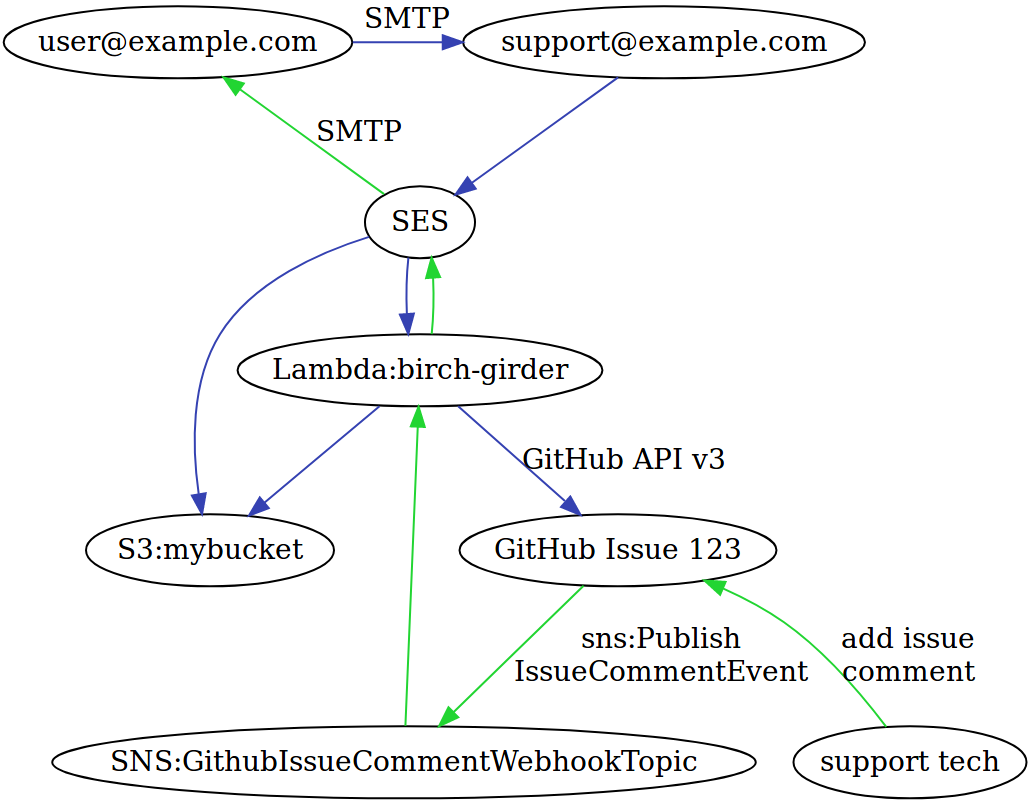
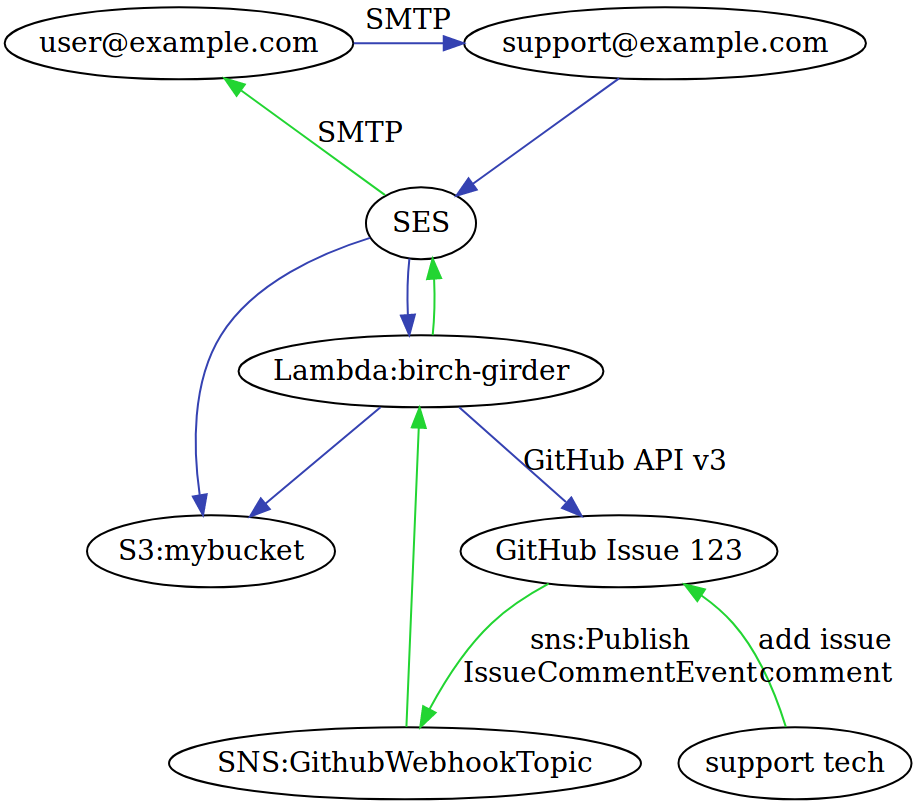
Change SNS topic to reflect the SNS topic being GitHub webhook centric not Birch Girder centric
Clarify GitHub webhook filtering logic to only trigger on IssueCommentEvent webhooks
Change default SNS policy and topic names to reflect the SNS topic being GitHub webhook centric not Birch Girder centric
Fix dryrun log message
Fix documentation typo
Revoke rights of alert SNS topic to trigger lambda function as it's not needed

diff --git a/birch_girder/__init__.py b/birch_girder/__init__.py
@@ -906,22 +906,20 @@ class EventHandler:
 
         message = json.loads(self.event['Records'][0]['Sns']['Message'])
         mention = '@%s' % self.config['github_username']
-        if 'action' not in message:
-            logger.info('action key missing from SNS message : %s'
+
+        if 'comment' not in message or 'issue' not in message:
+            logger.debug('Non IssueCommentEvent webhook event received : %s'
                         % self.event['Records'][0]['Sns']['Message'])
             return False
+        if 'action' not in message :
+            logger.error('action key missing from SNS message : %s'
+                        % self.event['Records'][0]['Sns']['Message'])
+            return False
+
         if message['action'] != 'created':
             logger.info(
-                'GitHub action in SNS message was "%s" so it will be ignored'
-                % message['action'])
-            return False
-        if 'comment' not in message:
-            logger.info('comment key missing from SNS message : %s'
-                        % self.event['Records'][0]['Sns']['Message'])
-            return False
-        if 'issue' not in message:
-            logger.info('issue key missing from SNS message : %s'
-                        % self.event['Records'][0]['Sns']['Message'])
+                'GitHub IssueCommentEvent action in SNS message was "%s" so '
+                'it will be ignored' % message['action'])
             return False
         if message['issue']['user']['login'] != self.config['github_username']:
             logger.info(
@@ -991,7 +989,6 @@ class EventHandler:
             "comment." % data['from'])
 
         if self.dryrun_tag not in message['comment']['body']:
-            logger.info('Running in dryrun mode')
             message_id = send_email(
                 email_subject="Re: %s" % subject,
                 from_name=self.config['recipient_list'][data['to']].get(
@@ -1013,16 +1010,16 @@ class EventHandler:
                 message['issue']['body'],
                 message_id,
                 {})
-
+        else:
+            logger.info('Running in dryrun mode')
 
 def lambda_handler(event, context):
-    """
-    Given an event determine if it's and incoming email or an SNS webhook alert
+    """Given an event determine if it's and incoming email or an SNS webhook alert
     and trigger the appropriate method
 
     :param event: A dictionary of metadata for an event
     :param context: The AWS Lambda context object
-    :return: A list of checks which resulted in failures
+    :return:
     """
     logger.debug('got event {}'.format(event))
     with open('config.yaml') as f:

diff --git a/manage.py b/manage.py
@@ -38,7 +38,7 @@ def grant_lambda_policy_permissions(config, lambda_function_arn):
     )
     print('Permission %s added : %s' % (statement_id, response['Statement']))
 
-    statement_id = 'GiveBirchGirderSNSTopicPermissionToInvokeFunction'
+    statement_id = 'GiveGithubWebhookSNSTopicPermissionToInvokeFunction'
     try:
         client.remove_permission(
             FunctionName=lambda_function_arn,
@@ -54,24 +54,6 @@ def grant_lambda_policy_permissions(config, lambda_function_arn):
         Action='lambda:InvokeFunction',
         Principal='sns.amazonaws.com',
         SourceArn=topic
-    )
-    print('Permission %s added : %s' % (statement_id, response['Statement']))
-
-    statement_id = 'GiveBirchGirderAlertSNSTopicPermissionToInvokeFunction'
-    try:
-        client.remove_permission(
-            FunctionName=lambda_function_arn,
-            StatementId=statement_id
-        )
-        print('%s Lambda permission removed' % statement_id)
-    except:
-        pass
-    response = client.add_permission(
-        FunctionName=lambda_function_arn,
-        StatementId=statement_id,
-        Action='lambda:InvokeFunction',
-        Principal='sns.amazonaws.com',
-        SourceArn=alert_topic
     )
     print('Permission %s added : %s' % (statement_id, response['Statement']))
 
@@ -177,7 +159,7 @@ def create_github_iam_user(config, iam_username='github-sns-publisher'):
         UserName=iam_username
     )
     print('IAM user %s created' % response['User']['UserName'])
-    policy_name = 'PublishToSNSaws-ses-github-connector'
+    policy_name = 'PublishToGithubWebhookSNSTopic'
     client.put_user_policy(
         UserName=iam_username,
         PolicyName=policy_name,

diff --git a/setup.py b/setup.py
@@ -11,7 +11,7 @@ with open(path.join(here, 'README.md'), encoding='utf-8') as f:
 
 setup(
     name='birch_girder',
-    version='0.8.2',
+    version='0.8.3',
     description='An Email Interface for GitHub Issues',
     long_description=long_description,
     url='https://github.com/gene1wood/birch-girder',

diff --git a/README.md b/README.md
@@ -44,13 +44,13 @@ Notably you don't need a server to run Birch Girder.
       "SES" -> "Lambda:birch-girder" [ color="0.650 0.700 0.700" ]
       "Lambda:birch-girder" -> "S3:mybucket" [ color="0.650 0.700 0.700" ]
       "Lambda:birch-girder" -> "GitHub Issue 123" [ label = "GitHub API v3", color="0.650 0.700 0.700" ]
-      "GitHub Issue 123" -> "SNS:GithubIssueCommentWebhookTopic" [ label = "sns:Publish\nIssueCommentEvent", color="0.348 0.839 0.839" ]
-      "SNS:GithubIssueCommentWebhookTopic" -> "Lambda:birch-girder" [ color="0.348 0.839 0.839" ]
+      "GitHub Issue 123" -> "SNS:GithubWebhookTopic" [ label = "sns:Publish\nIssueCommentEvent", color="0.348 0.839 0.839" ]
+      "SNS:GithubWebhookTopic" -> "Lambda:birch-girder" [ color="0.348 0.839 0.839" ]
       "Lambda:birch-girder" -> "SES" [ color="0.348 0.839 0.839" ]
       "SES" ->  "user@example.com" [ label = "SMTP" , color="0.348 0.839 0.839" ]
       "support tech" -> "GitHub Issue 123" [ label = "add issue\ncomment", color="0.348 0.839 0.839" ]
       { rank=same; "support@example.com"; "user@example.com"; }
-      { rank=same; "support tech"; "SNS:GithubIssueCommentWebhookTopic"; }
+      { rank=same; "support tech"; "SNS:GithubWebhookTopic"; }
     }
 
 -->
@@ -146,14 +146,13 @@ a mix of manual steps and commands run with the `manage.py` tool
 ```
 ./manage.py grant-lambda-policy-permissions --lambda-function-arn arn:aws:lambda:us-west-2:123456789012:function:birch-girder
     Permission GiveSESPermissionToInvokeFunction added : {"Sid":"GiveSESPermissionToInvokeFunction","Effect":"Allow","Principal":{"Service":"ses.amazonaws.com"},"Action":"lambda:InvokeFunction","Resource":"arn:aws:lambda:us-west-2:123456789012:function:birch-girder","Condition":{"StringEquals":{"AWS:SourceAccount":"123456789012"}}}
-    Permission GiveBirchGirderSNSTopicPermissionToInvokeFunction added : {"Sid":"GiveBirchGirderSNSTopicPermissionToInvokeFunction","Effect":"Allow","Principal":{"Service":"sns.amazonaws.com"},"Action":"lambda:InvokeFunction","Resource":"arn:aws:lambda:us-west-2:BirchGirderAlerts:function:birch-girder","Condition":{"ArnLike":{"AWS:SourceArn":"arn:aws:sns:us-west-2:123456789012:GithubIssueCommentWebhookTopic"}}}
-    Permission GiveBirchGirderAlertSNSTopicPermissionToInvokeFunction added : {"Sid":"GiveBirchGirderAlertSNSTopicPermissionToInvokeFunction","Effect":"Allow","Principal":{"Service":"sns.amazonaws.com"},"Action":"lambda:InvokeFunction","Resource":"arn:aws:lambda:us-west-2:BirchGirderAlerts:function:birch-girder","Condition":{"ArnLike":{"AWS:SourceArn":"arn:aws:sns:us-west-2:123456789012:BirchGirderAlerts"}}}
+    Permission GiveGithubWebhookSNSTopicPermissionToInvokeFunction added : {"Sid":"GiveGithubWebhookSNSTopicPermissionToInvokeFunction","Effect":"Allow","Principal":{"Service":"sns.amazonaws.com"},"Action":"lambda:InvokeFunction","Resource":"arn:aws:lambda:us-west-2:BirchGirderAlerts:function:birch-girder","Condition":{"ArnLike":{"AWS:SourceArn":"arn:aws:sns:us-west-2:123456789012:GithubWebhookTopic"}}}
 ./manage.py setup-ses --lambda-function-arn arn:aws:lambda:us-west-2:123456789012:function:birch-girder
     SES Rule Set birch-girder-ruleset created
     SES Rule birch-girder-rule created in Rule Set
     SES Rule Set birch-girder-ruleset set as active
 ./manage.py create-sns-topic
-    Topic ARN : arn:aws:sns:us-west-2:123456789012:GithubIssueCommentWebhookTopic
+    Topic ARN : arn:aws:sns:us-west-2:123456789012:GithubWebhookTopic
 ./manage.py create-github-iam-user --github-iam-user staging-github-sns-publisher
     AccessKeyId :  AKIAIOSFODNN7EXAMPLE
     SecretAccessKey :  wJalrXUtnFEMI/K7MDENG/bPxRfiCYEXAMPLEKEY
@@ -165,7 +164,7 @@ a mix of manual steps and commands run with the `manage.py` tool
 ./manage.py configure-github-webhook
     GitHub webook "amazonsns" on repo https://github.com/octocat/Spoon-Knife configured to trigger on [u'issue_comment']
 ./manage.py subscribe-lambda-to-sns --lambda-function-arn arn:aws:lambda:us-west-2:123456789012:function:birch-girder
-    Subscription ARN : arn:aws:sns:us-west-2:123456789012:GithubIssueCommentWebhookTopic:e4c5eb60-b40d-4bf2-aa33-07d74ab81856
+    Subscription ARN : arn:aws:sns:us-west-2:123456789012:GithubWebhookTopic:e4c5eb60-b40d-4bf2-aa33-07d74ab81856
 ```
 
 ## Setup config

diff --git a/docs/build-and-upload-birch-girder.md b/docs/build-and-upload-birch-girder.md
@@ -19,7 +19,7 @@ in). Create the zip file as follows
 
 Then fetch the resulting zip from the ec2 instance with scp
 
-Add the connector to the zipped virtualenv
+Add the Birch Girder lambda code to the zipped virtualenv
 ------------------------------------------
 
     zip --junk-paths artifacts/birch-girder.zip birch_girder/__init__.py
